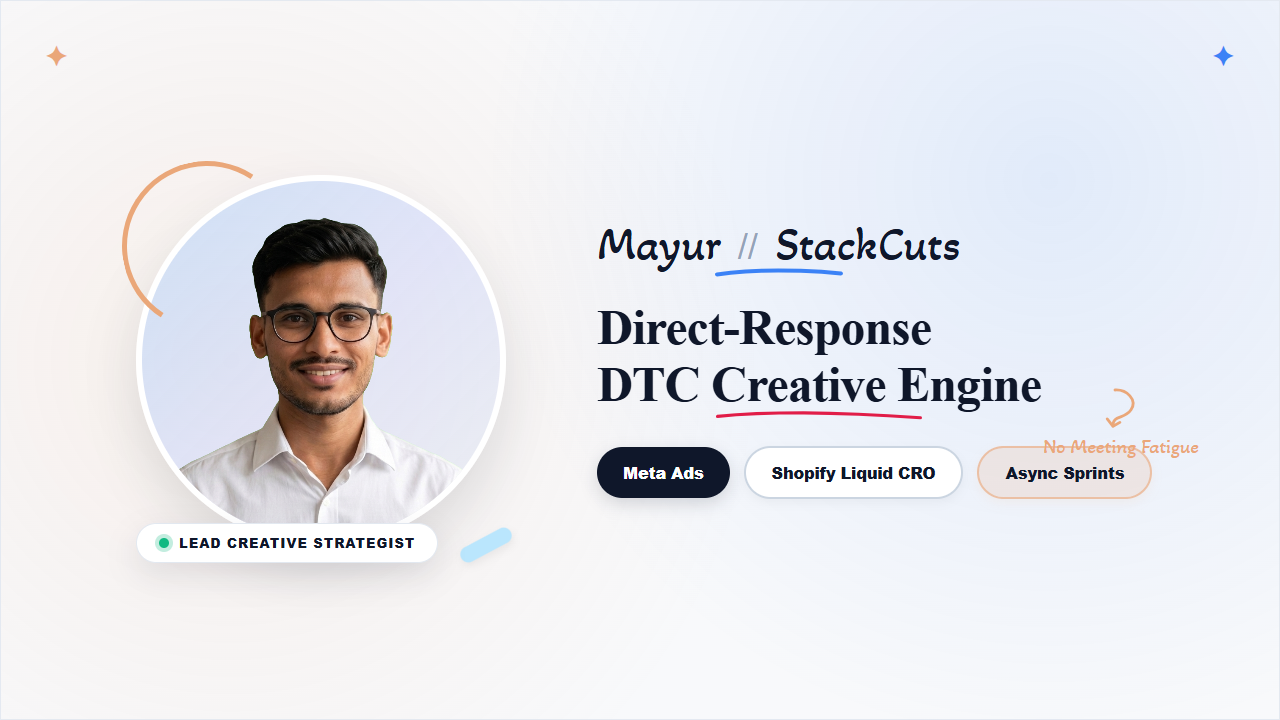
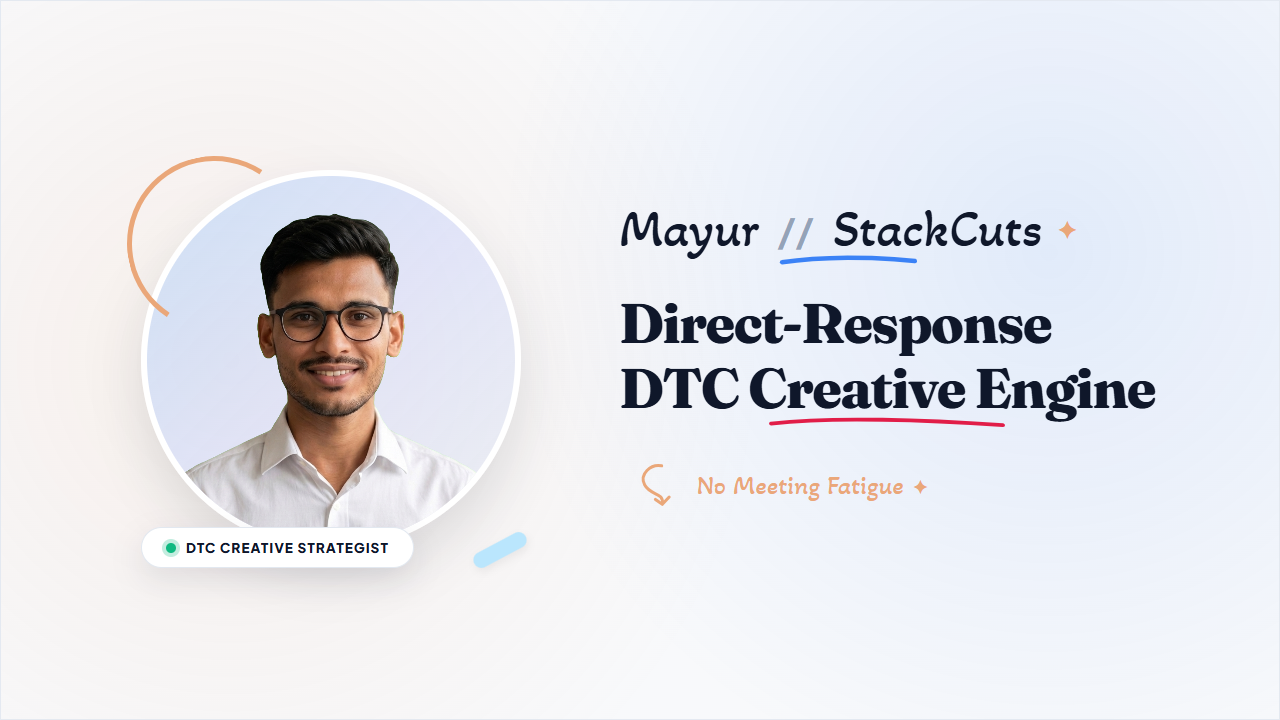
feat: ultra-clean 16:9 social thumbnail with DTC Creative Strategist badge and organic doodles

diff --git a/public/linkedin-thumbnail-canvas.html b/public/linkedin-thumbnail-canvas.html
@@ -2,7 +2,7 @@
 <html lang="en">
 <head>
   <meta charset="UTF-8">
-  <title>LinkedIn Featured Thumbnail (16:9 - 1280x720)</title>
+  <title>Clean Master Social & LinkedIn Thumbnail (16:9 - 1280x720)</title>
   <link rel="preconnect" href="https://fonts.googleapis.com">
   <link rel="preconnect" href="https://fonts.gstatic.com" crossorigin>
   <link href="https://fonts.googleapis.com/css2?family=Akaya+Kanadaka&family=Fraunces:opsz,wght@9..144,700;9..144,800;9..144,900&family=Plus+Jakarta+Sans:wght@600;700;800&display=swap" rel="stylesheet">
@@ -26,32 +26,24 @@
       -webkit-font-smoothing: antialiased;
     }
 
-    /* Main Container */
+    /* Main Canvas */
     .banner {
       width: 1280px;
       height: 720px;
       position: relative;
       overflow: hidden;
       background: radial-gradient(circle at 18% 50%, rgba(234, 167, 121, 0.12) 0%, transparent 48%),
-                  radial-gradient(circle at 82% 25%, rgba(59, 130, 246, 0.12) 0%, transparent 48%),
+                  radial-gradient(circle at 82% 35%, rgba(59, 130, 246, 0.12) 0%, transparent 48%),
                   #F8F9FB;
       display: grid;
       grid-template-columns: 480px 1fr;
       align-items: center;
-      padding: 60px 80px;
+      padding: 70px 90px;
       border: 1px solid rgba(226, 232, 240, 0.9);
     }
 
-    /* Ambient Corner Accents */
-    .sparkle {
-      position: absolute;
-      color: #EAA779;
-      font-size: 26px;
-      font-weight: bold;
-    }
-
     /* ========================================================================= */
-    /* LEFT: Large High-Impact Portrait Badge                                    */
+    /* LEFT: High-Impact Portrait Badge                                          */
     /* ========================================================================= */
     .portrait-col {
       display: flex;
@@ -63,8 +55,8 @@
 
     .portrait-box {
       position: relative;
-      width: 370px;
-      height: 370px;
+      width: 380px;
+      height: 380px;
     }
 
     /* Bold Orange Arc */
@@ -72,8 +64,8 @@
       position: absolute;
       top: -14px;
       left: -14px;
-      width: 170px;
-      height: 170px;
+      width: 175px;
+      height: 175px;
       border-radius: 50%;
       border: 5px solid #EAA779;
       border-right-color: transparent;
@@ -87,7 +79,7 @@
       position: absolute;
       bottom: -8px;
       right: -8px;
-      width: 56px;
+      width: 58px;
       height: 16px;
       border-radius: 9999px;
       background-color: #BAE6FD;
@@ -119,19 +111,19 @@
       transform: scale(1.06) translateY(12px);
     }
 
-    /* Floating Status Badge (Large and Legible) */
+    /* Floating Status Badge (DTC Creative Strategist) */
     .status-badge {
       position: absolute;
       bottom: -18px;
       display: inline-flex;
       align-items: center;
       gap: 10px;
-      padding: 10px 22px;
+      padding: 11px 24px;
       border-radius: 9999px;
       background: #FFFFFF;
       border: 1.5px solid #E2E8F0;
       box-shadow: 0 12px 30px rgba(15, 23, 42, 0.1);
-      font-size: 13px;
+      font-size: 13.5px;
       font-weight: 800;
       letter-spacing: 0.08em;
       text-transform: uppercase;
@@ -149,27 +141,33 @@
     }
 
     /* ========================================================================= */
-    /* RIGHT: High-Impact Typography & Bold Platform Pillars                     */
+    /* RIGHT: Vertically Centered Brand Identity, Headline & Hand-Drawn Doodle   */
     /* ========================================================================= */
     .content-col {
       display: flex;
       flex-direction: column;
       justify-content: center;
-      padding-left: 36px;
+      padding-left: 48px;
       position: relative;
     }
 
-    /* Brand Logo (Akaya Kanadaka - Big & Bold) */
+    /* Brand Logo (Akaya Kanadaka) */
     .logo-container {
       position: relative;
       display: inline-block;
       width: fit-content;
-      margin-bottom: 20px;
+      margin-bottom: 24px;
+    }
+
+    .logo-row {
+      display: flex;
+      align-items: center;
+      gap: 10px;
     }
 
     .logo-text {
       font-family: 'Akaya Kanadaka', cursive;
-      font-size: 46px;
+      font-size: 52px;
       color: #0F172A;
       line-height: 1;
     }
@@ -179,26 +177,32 @@
       font-weight: 300;
       color: #94A3B8;
       margin: 0 6px;
-      font-size: 36px;
+      font-size: 38px;
+    }
+
+    .inline-sparkle {
+      color: #EAA779;
+      font-size: 26px;
+      margin-left: 4px;
     }
 
     .blue-brush {
       width: 100%;
-      height: 14px;
+      height: 15px;
       color: #3B82F6;
-      margin-top: -3px;
+      margin-top: -2px;
       display: block;
     }
 
-    /* Main Headline (Fraunces Serif - High Impact) */
+    /* Main Headline (Fraunces Serif) */
     .headline {
       font-family: 'Fraunces', serif;
-      font-size: 50px;
+      font-size: 56px;
       font-weight: 800;
       color: #0F172A;
       line-height: 1.15;
-      letter-spacing: -0.02em;
-      margin-bottom: 32px;
+      letter-spacing: -0.025em;
+      margin-bottom: 28px;
       position: relative;
     }
 
@@ -210,93 +214,51 @@
     .red-scribble {
       position: absolute;
       left: 0;
-      bottom: -8px;
+      bottom: -10px;
       width: 100%;
-      height: 14px;
+      height: 16px;
       color: #E11D48;
       pointer-events: none;
     }
 
-    /* Big, Bold Platform Pills (High Visibility at Small Scale) */
-    .pills-container {
+    /* Open Doodle Arrow & Note (Generous Space, Zero Overlap) */
+    .doodle-row {
       display: flex;
       align-items: center;
       gap: 14px;
-      position: relative;
-    }
-
-    .pill-dark {
-      background-color: #0F172A;
-      color: #FFFFFF;
-      padding: 14px 26px;
-      border-radius: 9999px;
-      font-size: 16px;
-      font-weight: 800;
-      letter-spacing: -0.01em;
-      box-shadow: 0 6px 16px rgba(15, 23, 42, 0.15);
-      white-space: nowrap;
-    }
-
-    .pill-light {
-      background-color: #FFFFFF;
-      color: #0F172A;
-      border: 2px solid #CBD5E1;
-      padding: 13px 26px;
-      border-radius: 9999px;
-      font-size: 16px;
-      font-weight: 800;
-      letter-spacing: -0.01em;
-      box-shadow: 0 4px 10px rgba(0, 0, 0, 0.04);
-      white-space: nowrap;
-    }
-
-    .pill-accent {
-      background-color: rgba(234, 167, 121, 0.18);
-      color: #0F172A;
-      border: 2px solid rgba(234, 167, 121, 0.6);
-      padding: 13px 26px;
-      border-radius: 9999px;
-      font-size: 16px;
-      font-weight: 800;
-      letter-spacing: -0.01em;
-      box-shadow: 0 4px 10px rgba(234, 167, 121, 0.1);
-      white-space: nowrap;
-    }
-
-    /* Playful Doodle Arrow */
-    .arrow-box {
-      position: absolute;
-      right: 0px;
-      top: -65px;
-      display: flex;
-      flex-direction: column;
-      align-items: center;
-      pointer-events: none;
+      padding-top: 6px;
     }
 
     .arrow-svg {
-      width: 60px;
-      height: 60px;
+      width: 64px;
+      height: 64px;
       color: #EAA779;
-      transform: rotate(15deg);
+      transform: rotate(-10deg);
+    }
+
+    .doodle-text-group {
+      display: flex;
+      align-items: center;
+      gap: 8px;
     }
 
     .arrow-label {
       font-family: 'Akaya Kanadaka', cursive;
-      font-size: 20px;
+      font-size: 26px;
       color: #EAA779;
-      margin-top: -6px;
+      letter-spacing: 0.01em;
       white-space: nowrap;
+    }
+
+    .doodle-sparkle {
+      color: #EAA779;
+      font-size: 20px;
     }
   </style>
 </head>
 <body>
   <div class="banner">
     
-    <!-- Sparkles -->
-    <div class="sparkle" style="top: 36px; left: 45px;">✦</div>
-    <div class="sparkle" style="top: 36px; right: 45px; color: #3B82F6;">✦</div>
-
     <!-- LEFT: High-Impact Portrait Badge -->
     <div class="portrait-col">
       <div class="portrait-box">
@@ -307,53 +269,46 @@
         </div>
         <div class="status-badge">
           <div class="pulse-dot"></div>
-          <span>Lead Creative Strategist</span>
+          <span>DTC Creative Strategist</span>
         </div>
       </div>
     </div>
 
-    <!-- RIGHT: Content Column -->
+    <!-- RIGHT: Centered Content Column -->
     <div class="content-col">
       
-      <!-- Brand Logo -->
+      <!-- Brand Logo with Inline Sparkle and Blue Brush Stroke -->
       <div class="logo-container">
-        <div class="logo-text">
-          Mayur <span class="logo-divider">//</span> StackCuts
+        <div class="logo-row">
+          <div class="logo-text">
+            Mayur <span class="logo-divider">//</span> StackCuts
+          </div>
+          <span class="inline-sparkle">✦</span>
         </div>
         <svg class="blue-brush" viewBox="0 0 130 14" fill="none" xmlns="http://www.w3.org/2000/svg">
-          <path d="M3 9.5C38 4.5 90 4 127 8.5" stroke="currentColor" stroke-width="4" stroke-linecap="round"/>
+          <path d="M3 9.5C38 4.5 90 4 127 8.5" stroke="currentColor" stroke-width="4.2" stroke-linecap="round"/>
         </svg>
       </div>
 
-      <!-- Main Headline -->
+      <!-- Main Headline with Red Hand-Drawn Scribble -->
       <h1 class="headline">
         Direct-Response <br>
         <span class="red-scribble-wrapper">
           DTC Creative Engine
           <svg class="red-scribble" viewBox="0 0 300 20" fill="none" xmlns="http://www.w3.org/2000/svg">
-            <path d="M5 12C60 6 150 4 295 14" stroke="currentColor" stroke-width="4.5" stroke-linecap="round"/>
+            <path d="M5 12C60 6 150 4 295 14" stroke="currentColor" stroke-width="4.8" stroke-linecap="round"/>
           </svg>
         </span>
       </h1>
 
-      <!-- 3 Big, Bold Platform Pillars -->
-      <div class="pills-container">
-        <div class="pill-dark">
-          <span>Meta Ads</span>
-        </div>
-        <div class="pill-light">
-          <span>Shopify Liquid CRO</span>
-        </div>
-        <div class="pill-accent">
-          <span>Async Sprints</span>
-        </div>
-
-        <!-- Playful Doodle Arrow pointing down to pills -->
-        <div class="arrow-box">
-          <svg class="arrow-svg" viewBox="0 0 64 64" fill="none" xmlns="http://www.w3.org/2000/svg">
-            <path d="M20 12C32 8 46 16 42 28C38 40 24 38 28 50M28 50L20 44M28 50L34 44" stroke="currentColor" stroke-width="3" stroke-linecap="round" stroke-linejoin="round"/>
-          </svg>
+      <!-- Clean Doodle Row: Curly Arrow + Note + Sparkle -->
+      <div class="doodle-row">
+        <svg class="arrow-svg" viewBox="0 0 64 64" fill="none" xmlns="http://www.w3.org/2000/svg">
+          <path d="M46 14C36 10 22 18 26 30C30 42 44 40 40 52M40 52L48 46M40 52L34 46" stroke="currentColor" stroke-width="3" stroke-linecap="round" stroke-linejoin="round"/>
+        </svg>
+        <div class="doodle-text-group">
           <span class="arrow-label">No Meeting Fatigue</span>
+          <span class="doodle-sparkle">✦</span>
         </div>
       </div>
 

diff --git a/index.html b/index.html
@@ -13,8 +13,8 @@
     <meta property="og:title" content="Mayur // StackCuts — Direct-Response DTC Creative Engine" />
     <meta property="og:description" content="Direct-response creative engine for scaling DTC brands. High-converting AI UGC, cinematic ads, high-CTR statics & carousels, and native Shopify Liquid CRO." />
     <meta property="og:image" content="https://stackcuts.com/og_preview.png" />
-    <meta property="og:image:width" content="1200" />
-    <meta property="og:image:height" content="630" />
+    <meta property="og:image:width" content="1280" />
+    <meta property="og:image:height" content="720" />
 
     <!-- Twitter / X Card Meta Tags -->
     <meta name="twitter:card" content="summary_large_image" />
